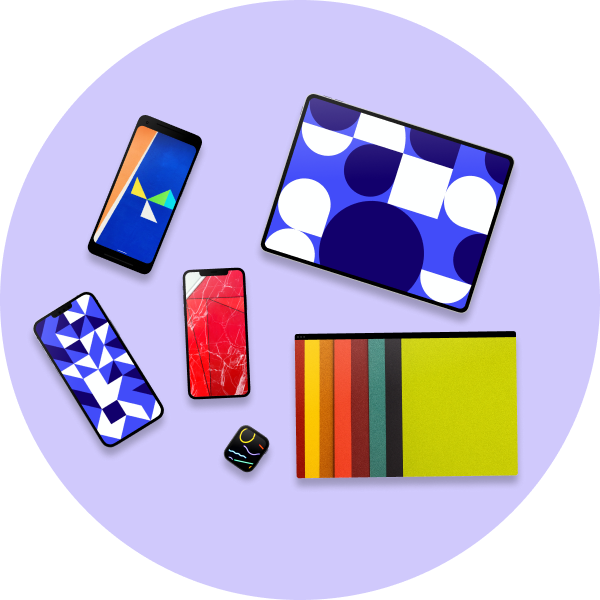
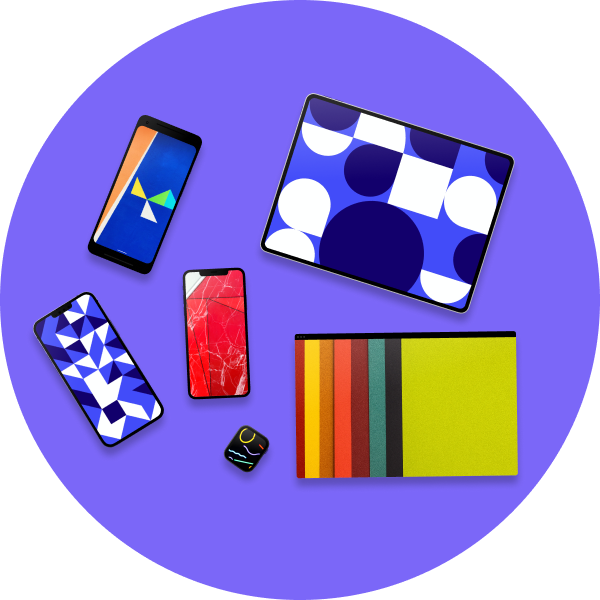
styles and copy

diff --git a/index.html b/index.html
@@ -62,7 +62,7 @@
                     </div>
                     <div class="col-6">
                         <h2 class="section-heading">UX Design</h2>
-                         <p>I enjoy designing toward that perfect balance bwtween user needs and business goals. My UX toolbelt includes techniques like competitive analysis, user research, ideation exercises/workshops, rapid prototyping and user testing.</p>
+                         <p>I love finding that perfect balance bwtween user needs and business goals.</p>
                          <ul class="tools-list">
                             <li class="tech-logo pencil">
                                 <svg xmlns="http://www.w3.org/2000/svg" xmlns:xlink="http://www.w3.org/1999/xlink" version="1.1" id="Layer_1" x="0px" y="0px" viewBox="0 0 411.765 411.765" style="enable-background:new 0 0 411.765 411.765;" xml:space="preserve" width="24" height="24">
@@ -125,7 +125,7 @@
                 <div class="row skill-row">
                     <div class="col-6">
                         <h2 class="section-heading">UI Design</h2>
-                        <p>I design toward simplicity. With experience maintaining design systems, building high-fidelity interactive prototypes, conducting user tests and synthesizing findings for rapid iteration, my goal is to make things easy - both for users, and the dev team.</p>
+                        <p>I design toward simplicity - both for users, and the dev team.</p>
                         <ul class="tools-list">
                            <li class="tech-logo figma">
                                 <svg height="24" viewBox="0 0 200 300" width="24" xmlns="http://www.w3.org/2000/svg"><path d="M50 300c27.6 0 50-22.4 50-50v-50H50c-27.6 0-50 22.4-50 50s22.4 50 50 50z" fill="#0acf83"/><path d="M0 150c0-27.6 22.4-50 50-50h50v100H50c-27.6 0-50-22.4-50-50z" fill="#a259ff"/><path d="M0 50C0 22.4 22.4 0 50 0h50v100H50C22.4 100 0 77.6 0 50z" fill="#f24e1e"/><path d="M100 0h50c27.6 0 50 22.4 50 50s-22.4 50-50 50h-50z" fill="#ff7262"/><path d="M200 150c0 27.6-22.4 50-50 50s-50-22.4-50-50 22.4-50 50-50 50 22.4 50 50z" fill="#1abcfe"/></svg>
@@ -152,7 +152,7 @@
                     </div>
                     <div class="col-6">
                         <h2 class="section-heading">Front-End</h2>
-                        <p>I work to write accessible, maintainable code and to stay up to date on the latest front-end technologies. I have professional experience writing production quality markup, CSS, and Vanilla Javascript, plus lots of classroom experience with React.</p>
+                        <p>I work to write accessible, maintainable code and to stay up to date on the latest front-end technologies.</p>
                         <ul class="tools-list">
                             <li class="tech-logo sass">                               
                                 <svg height="24" viewBox=".15 .13 799.7 479.69" width="24" xmlns="http://www.w3.org/2000/svg"><path d="m400 .13c-106.63 0-173.27 53.3-199.93 159.89 39.99-53.3 86.64-73.28 139.95-59.96 30.42 7.6 52.16 29.67 76.23 54.09 39.2 39.78 84.57 85.82 183.68 85.82 106.62 0 173.27-53.3 199.92-159.9-39.98 53.3-86.63 73.29-139.95 59.97-30.41-7.6-52.15-29.67-76.22-54.09-39.2-39.78-84.58-85.82-183.68-85.82zm-199.93 239.84c-106.62 0-173.27 53.3-199.92 159.9 39.98-53.3 86.63-73.29 139.95-59.96 30.41 7.61 52.15 29.67 76.22 54.08 39.2 39.78 84.58 85.83 183.68 85.83 106.63 0 173.27-53.3 199.93-159.9-39.99 53.3-86.64 73.29-139.95 59.96-30.42-7.59-52.16-29.67-76.23-54.08-39.2-39.78-84.57-85.83-183.68-85.83z" fill="#06b6d4"/></svg>
@@ -281,16 +281,19 @@
                     <li class="social-link github ">
                         <a href="#">
                             <svg xmlns="http://www.w3.org/2000/svg" width="64" height="64" viewBox="0 0 24 24"><path d="M12 0c-6.626 0-12 5.373-12 12 0 5.302 3.438 9.8 8.207 11.387.599.111.793-.261.793-.577v-2.234c-3.338.726-4.033-1.416-4.033-1.416-.546-1.387-1.333-1.756-1.333-1.756-1.089-.745.083-.729.083-.729 1.205.084 1.839 1.237 1.839 1.237 1.07 1.834 2.807 1.304 3.492.997.107-.775.418-1.305.762-1.604-2.665-.305-5.467-1.334-5.467-5.931 0-1.311.469-2.381 1.236-3.221-.124-.303-.535-1.524.117-3.176 0 0 1.008-.322 3.301 1.23.957-.266 1.983-.399 3.003-.404 1.02.005 2.047.138 3.006.404 2.291-1.552 3.297-1.23 3.297-1.23.653 1.653.242 2.874.118 3.176.77.84 1.235 1.911 1.235 3.221 0 4.609-2.807 5.624-5.479 5.921.43.372.823 1.102.823 2.222v3.293c0 .319.192.694.801.576 4.765-1.589 8.199-6.086 8.199-11.386 0-6.627-5.373-12-12-12z"/></svg>
+                            <p>GitHub</p>
                         </a>
                     </li>
                     <li class="social-link dribbble ">
                         <a href="#">
                             <svg xmlns="http://www.w3.org/2000/svg" width="64" height="64" viewBox="0 0 24 24"><path d="M12 0c-6.628 0-12 5.373-12 12s5.372 12 12 12 12-5.373 12-12-5.372-12-12-12zm9.885 11.441c-2.575-.422-4.943-.445-7.103-.073-.244-.563-.497-1.125-.767-1.68 2.31-1 4.165-2.358 5.24-4.082 1.35 1.594 2.197 3.619 2.322 5.835zm-3.842-7.282c-1.205 1.554-2.868 2.783-4.986 3.68-1.016-1.861-2.178-3.676-3.488-5.438.779-.197 1.591-.314 2.431-.314 2.275 0 4.368.779 6.043 2.072zm-10.516-.993c1.331 1.742 2.511 3.538 3.537 5.381-2.43.715-5.331 1.082-8.684 1.105.692-2.835 2.601-5.193 5.147-6.486zm-5.44 8.834l.013-.256c3.849-.005 7.169-.448 9.95-1.322.233.475.456.952.67 1.432-3.38 1.057-6.165 3.222-8.337 6.48-1.432-1.719-2.296-3.927-2.296-6.334zm3.829 7.81c1.969-3.088 4.482-5.098 7.598-6.027.928 2.42 1.609 4.91 2.043 7.46-3.349 1.291-6.953.666-9.641-1.433zm11.586.43c-.438-2.353-1.08-4.653-1.92-6.897 1.876-.265 3.94-.196 6.199.196-.437 2.786-2.028 5.192-4.279 6.701z"/></svg>
+                            <p>Dribbble</p>
                         </a>
                     </li>
                     <li class="social-link linkedin ">
                         <a href="#">
                             <svg xmlns="http://www.w3.org/2000/svg" width="64" height="64" viewBox="0 0 24 24"><path d="M19 0h-14c-2.761 0-5 2.239-5 5v14c0 2.761 2.239 5 5 5h14c2.762 0 5-2.239 5-5v-14c0-2.761-2.238-5-5-5zm-11 19h-3v-11h3v11zm-1.5-12.268c-.966 0-1.75-.79-1.75-1.764s.784-1.764 1.75-1.764 1.75.79 1.75 1.764-.783 1.764-1.75 1.764zm13.5 12.268h-3v-5.604c0-3.368-4-3.113-4 0v5.604h-3v-11h3v1.765c1.396-2.586 7-2.777 7 2.476v6.759z"/></svg>
+                            <p>LinkedIn</p>
                         </a>
                     </li>
                 </ul>

diff --git a/style.css b/style.css
@@ -145,6 +145,9 @@ body.homepage h1 {
 body.homepage section {
   padding: 1.5rem 0;
 }
+body.homepage section.ux, body.homepage section.fe {
+  background: #F8F8F8;
+}
 @media (min-width: 640px) {
   body.homepage section {
     padding: 2rem 0;
@@ -317,12 +320,8 @@ body.homepage .skill-row .col-6 li {
 body.homepage .skill-row .col-6 li .tech-logo svg {
   height: 24px;
 }
-body.homepage .projects {
-  background: #A294FA;
-}
 body.homepage .projects .section-heading {
   margin-bottom: 1.5rem;
-  color: white;
 }
 body.homepage .projects .project-grid {
   display: grid;
@@ -448,7 +447,12 @@ body.homepage .social .social-links {
   margin: 0 auto;
   max-width: 640px;
 }
+body.homepage .social .social-links a {
+  text-decoration: none;
+  color: #7B67F8;
+}
 body.homepage .social .social-links a:hover {
+  color: #5A41F6;
   filter: drop-shadow(0px 4px 4px rgba(0, 0, 0, 0.2));
 }
 body.homepage .social .social-links .github svg {

diff --git a/style.scss b/style.scss
@@ -27,6 +27,11 @@ body.homepage {
     
     section {
         padding: $space-md-3 0;
+
+        &.ux,
+        &.fe {
+            background: $light-tint;
+        }
     
         @media ($screen-sm) {
             padding: $space-lg-1 0;
@@ -228,11 +233,9 @@ body.homepage {
     }
 
     .projects {
-        background: $primary-tint;
 
         .section-heading {
             margin-bottom: $space-md-3;
-            color: white;
         }
 
         .project-grid {
@@ -374,8 +377,14 @@ body.homepage {
             margin: 0 auto;
             max-width: 640px;
     
-            a:hover {
-                filter: drop-shadow($shadow-sm);
+            a {
+                text-decoration: none;
+                color: $primary-base;
+
+                &:hover {
+                    color: $primary-shade;
+                    filter: drop-shadow($shadow-sm);
+                }
             }
     
             .github svg {
